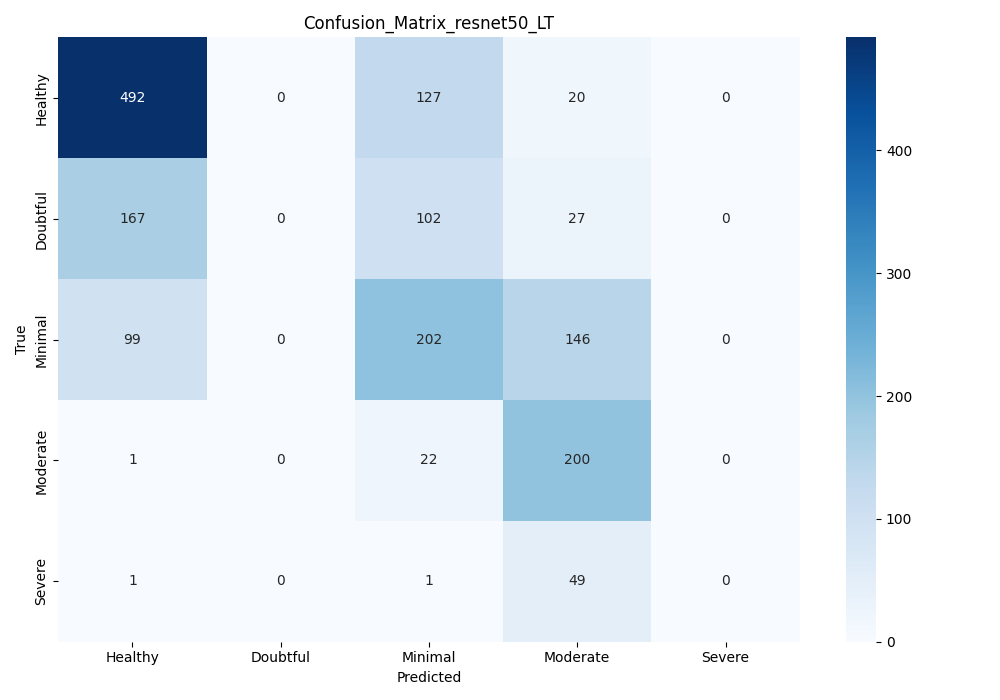
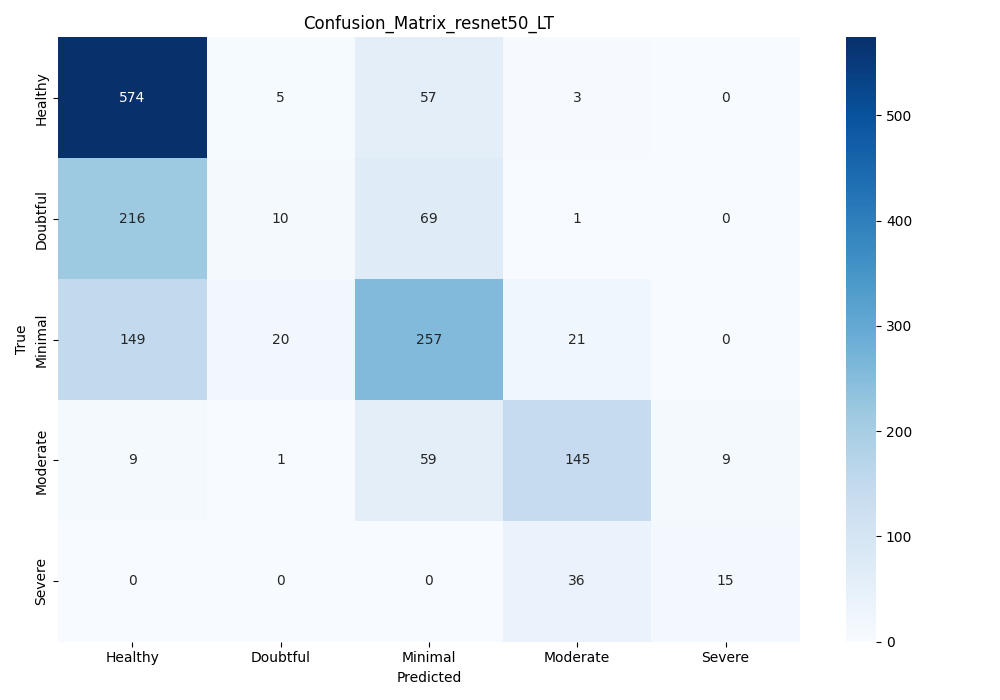
addedstreamlit for img gen + added cosine annealing

diff --git a/generate_data.py b/generate_data.py
@@ -1,0 +1,161 @@
+import omegaconf
+from data.kneeOA import KneeOADataset
+from utils.utils import *
+from monai.utils import set_determinism
+from torch.utils.data import DataLoader
+from models.generative_model import build_autoencoder, build_diffusion_model, \
+                                    build_scheduler, AutoEncoderSampler, \
+                                    build_controlnet
+import torch
+from transformers import CLIPTextModel, CLIPTokenizer
+import gc
+
+cfg = omegaconf.OmegaConf.load('configs/cfg.yaml')
+set_determinism(seed=cfg.TRAIN.SEED)
+
+img_transform = get_transforms(cfg)
+train_dataset = KneeOADataset(cfg, 'train', img_transform)
+scaling_factor = ldm_scaling_factor(cfg, train_dataset)
+cfg.ldm.scale_factor = scaling_factor.item()
+train_loader = DataLoader(train_dataset, batch_size=4, 
+                        shuffle=True, num_workers=cfg.TRAIN.NUM_WORKERS,
+                        pin_memory=cfg.TRAIN.PIN_MEMORY)
+device = torch.device('cuda' if torch.cuda.is_available() else 'cpu')
+
+gc.collect()
+torch.cuda.empty_cache()
+
+# Loading Model
+autoencoder = build_autoencoder(cfg)
+autoencoder.load_state_dict(torch.load(os.path.join(cfg.TRAIN.MODEL_PATH, 
+                                                    cfg.stage1.BEST_MODEL_NAME)))
+auto_sampler = AutoEncoderSampler(autoencoder)
+auto_sampler.eval()
+
+diffusion_model = build_diffusion_model(cfg)
+diffusion_model.load_state_dict(torch.load(os.path.join(cfg.TRAIN.MODEL_PATH, 
+                                                        cfg.ldm.BEST_MODEL_NAME)))
+diffusion_model.eval()
+
+controlnet = build_controlnet(cfg)
+
+# Copy weights from the DM to the controlnet
+controlnet.load_state_dict(torch.load(os.path.join(cfg.TRAIN.MODEL_PATH,
+                                                   cfg.controlnet.CHECKPOINT_NAME))["controlnet"])
+controlnet.eval()
+    
+scheduler = build_scheduler(cfg)
+text_encoder = CLIPTextModel.from_pretrained(cfg.text_encoder.model_name, 
+                                                subfolder="text_encoder")
+tokenizer = CLIPTokenizer.from_pretrained(cfg.text_encoder.model_name, 
+                                            subfolder="tokenizer")
+
+autoencoder = autoencoder.to(device)
+diffusion_model = diffusion_model.to(device)
+controlnet = controlnet.to(device)
+text_encoder = text_encoder.to(device)
+
+class_0_images = []
+# class_1_images = []
+# class_2_images = []
+# class_3_images = []
+# class_4_images = []
+for batch in train_loader:
+    conditioning_images = batch['image']
+    conditional_prompts = batch['prompt']
+    kl_grade = batch['kl_grade']
+    
+    class_0_images.extend(conditioning_images[torch.where(kl_grade == 0)[0]])
+    # class_1_images.extend(conditioning_images[torch.where(kl_grade == 1)[0]])
+    # class_2_images.extend(conditioning_images[torch.where(kl_grade == 2)[0]])
+    # class_3_images.extend(conditioning_images[torch.where(kl_grade == 3)[0]])
+    # class_4_images.extend(conditioning_images[torch.where(kl_grade == 4)[0]])
+class_0_images = torch.stack(class_0_images).to(device)
+# class_1_images = torch.stack(class_1_images).to(device)
+# class_2_images = torch.stack(class_2_images).to(device)
+# class_3_images = torch.stack(class_3_images).to(device)
+# class_4_images = torch.stack(class_4_images).to(device)
+
+@torch.no_grad()
+def transform_to_kl_grade(images, current_kl_grade, target_kl_grade,
+                          controlnet_scale=1.0, guidance_scale=2.0):
+    os.makedirs(f"./datasets/zero_to_all/{target_kl_grade}", exist_ok=True)
+    descriptions = {
+        "0": "Healthy knee image",
+        "1": "Doubtful joint narrowing with possible osteophytic lipping",
+        "2": "Definite presence of osteophytes and possible joint space narrowing",
+        "3": "Multiple osteophytes, definite joint space narrowing, with mild sclerosis",
+        "4": "Large osteophytes, significant joint narrowing, and severe sclerosis"
+        }
+    prompt_text = f"Generate a high-resolution X-ray image of the knee with \
+Kellgren and Lawrence grade (KL Grade): {target_kl_grade}, depicting \
+{descriptions[target_kl_grade]} from a conditioned image of Kellgren and \
+Lawrence grade (KL Grade): {current_kl_grade}, depicting {descriptions[current_kl_grade]}"
+
+    progressive_images = []
+    bs = 16
+    caption = [prompt_text]*bs
+    prompt_input = tokenizer(caption, padding="max_length",
+                                max_length=tokenizer.model_max_length,
+                                truncation=True,return_tensors="pt")['input_ids']
+    prompt_input = prompt_input.to(device)
+    for i in tqdm(range(0, len(images), bs)):
+        condition = images[i:i+bs]
+        prompt_embeds = text_encoder(prompt_input.squeeze(1))
+        prompt_embeds = prompt_embeds[0]
+        
+        latent = torch.randn((len(condition),) + (3,28,28))
+        latent = latent.to(device)
+        uncond_prompt_embeds = torch.cat((49406 * torch.ones(1, 1), 49407 * torch.ones(1, 76)), 1).long()
+        uncond_prompt_embeds = uncond_prompt_embeds.to(device)
+        uncond_prompt_embeds = text_encoder(uncond_prompt_embeds.squeeze(1))
+        uncond_prompt_embeds = uncond_prompt_embeds[0]
+        uncond_prompt_embeds = uncond_prompt_embeds.expand(len(condition), *uncond_prompt_embeds.shape[1:])
+        for t in scheduler.timesteps:
+            down_block_res_samples, mid_block_res_sample = controlnet(
+                                    x=latent,
+                                    timesteps=torch.asarray((t,)).to(device).long(),
+                                    context=prompt_embeds,
+                                    controlnet_cond=condition,
+                                    conditioning_scale=controlnet_scale,
+                                )
+            model_output = diffusion_model(
+                                    x=latent,
+                                    timesteps=torch.asarray((t,)).to(device).long(),
+                                    context=prompt_embeds,
+                                    down_block_additional_residuals=down_block_res_samples,
+                                    mid_block_additional_residual=mid_block_res_sample,
+                                )
+            model_output_uncond = diffusion_model(
+                                    x=latent,
+                                    timesteps=torch.asarray((t,)).to(device).long(),
+                                    context=uncond_prompt_embeds,
+                                    down_block_additional_residuals=down_block_res_samples,
+                                    mid_block_additional_residual=mid_block_res_sample,
+                                )
+            noise_pred_uncond, noise_pred_text = model_output, model_output_uncond
+            noise_pred = noise_pred_uncond + guidance_scale * (noise_pred_text - noise_pred_uncond)
+            latent, _ = scheduler.step(noise_pred, t, latent)
+        x_hat = auto_sampler.model.decode(latent / scaling_factor)
+        x_hat = torch.clip(x_hat, 0, 1)
+        x_hat = x_hat.cpu().numpy()[:,0]
+        progressive_images.extend(x_hat)
+    
+    for idx, img in enumerate(progressive_images):
+        plt.imsave(f"./datasets/zero_to_all/{target_kl_grade}/image_{idx}.png", img, cmap='gray')
+
+# random_idx_progress = random.sample(list(range(len(class_0_images))), 1243)
+# sample_images = class_0_images[random_idx_progress]
+# transform_to_kl_grade(sample_images, '0', '1')
+
+# random_idx_progress = random.sample(list(range(len(class_0_images))), 773)
+# sample_images = class_0_images[random_idx_progress]
+# transform_to_kl_grade(sample_images, '0', '2')
+
+# random_idx_progress = random.sample(list(range(len(class_0_images))), 1532)
+# sample_images = class_0_images[random_idx_progress]
+# transform_to_kl_grade(sample_images, '0', '3')
+
+random_idx_progress = random.sample(list(range(len(class_0_images))), 2116)
+sample_images = class_0_images[random_idx_progress]
+transform_to_kl_grade(sample_images, '0', '4')

diff --git a/app_generate.py b/app_generate.py
@@ -1,0 +1,156 @@
+import streamlit as st
+import torch
+import numpy as np
+import torchvision.transforms as transforms
+from PIL import Image
+import matplotlib.pyplot as plt
+import matplotlib.cm as cm
+import torchvision.models as models
+import torch.nn as nn
+import timm
+
+import omegaconf
+from data.kneeOA import KneeOADataset
+from utils.utils import *
+from monai.utils import set_determinism
+from torch.utils.data import DataLoader
+from models.generative_model import build_autoencoder, build_diffusion_model, \
+                                    build_scheduler, AutoEncoderSampler, \
+                                    build_controlnet
+import torch
+from transformers import CLIPTextModel, CLIPTokenizer
+import gc
+
+cfg = omegaconf.OmegaConf.load('./configs/cfg.yaml')
+set_determinism(seed=cfg.TRAIN.SEED)
+
+img_transform = get_transforms(cfg)
+train_dataset = KneeOADataset(cfg, 'train', img_transform)
+scaling_factor = ldm_scaling_factor(cfg, train_dataset)
+cfg.ldm.scale_factor = scaling_factor.item()
+device = torch.device('cuda' if torch.cuda.is_available() else 'cpu')
+
+gc.collect()
+torch.cuda.empty_cache()
+
+# Loading Model
+autoencoder = build_autoencoder(cfg)
+autoencoder.load_state_dict(torch.load(os.path.join(cfg.TRAIN.MODEL_PATH, 
+                                                    cfg.stage1.BEST_MODEL_NAME)))
+auto_sampler = AutoEncoderSampler(autoencoder)
+auto_sampler.eval()
+
+diffusion_model = build_diffusion_model(cfg)
+diffusion_model.load_state_dict(torch.load(os.path.join(cfg.TRAIN.MODEL_PATH, 
+                                                        cfg.ldm.BEST_MODEL_NAME)))
+diffusion_model.eval()
+
+controlnet = build_controlnet(cfg)
+
+# Copy weights from the DM to the controlnet
+controlnet.load_state_dict(torch.load(os.path.join(cfg.TRAIN.MODEL_PATH,
+                                                   cfg.controlnet.CHECKPOINT_NAME))["controlnet"])
+controlnet.eval()
+    
+scheduler = build_scheduler(cfg)
+text_encoder = CLIPTextModel.from_pretrained(cfg.text_encoder.model_name, 
+                                                subfolder="text_encoder")
+tokenizer = CLIPTokenizer.from_pretrained(cfg.text_encoder.model_name, 
+                                            subfolder="tokenizer")
+
+autoencoder = autoencoder.to(device)
+diffusion_model = diffusion_model.to(device)
+controlnet = controlnet.to(device)
+text_encoder = text_encoder.to(device)
+
+@torch.no_grad()
+def transform_to_kl_grade(image, current_kl_grade, target_kl_grade,
+                          controlnet_scale=1.0, guidance_scale=2.0):
+    image = img_transform(image)
+    descriptions = {
+        "0": "Healthy knee image",
+        "1": "Doubtful joint narrowing with possible osteophytic lipping",
+        "2": "Definite presence of osteophytes and possible joint space narrowing",
+        "3": "Multiple osteophytes, definite joint space narrowing, with mild sclerosis",
+        "4": "Large osteophytes, significant joint narrowing, and severe sclerosis"
+        }
+    prompt_text = f"Generate a high-resolution X-ray image of the knee with \
+Kellgren and Lawrence grade (KL Grade): {target_kl_grade}, depicting \
+{descriptions[target_kl_grade]} from a conditioned image of Kellgren and \
+Lawrence grade (KL Grade): {current_kl_grade}, depicting {descriptions[current_kl_grade]}"
+
+    caption = [prompt_text]
+    prompt_input = tokenizer(caption, padding="max_length",
+                                max_length=tokenizer.model_max_length,
+                                truncation=True,return_tensors="pt")['input_ids']
+    prompt_input = prompt_input.to(device)
+    condition = image[0:1,:,:].unsqueeze(0).to(device)
+    prompt_embeds = text_encoder(prompt_input.squeeze(1))
+    prompt_embeds = prompt_embeds[0]
+        
+    latent = torch.randn((len(condition),) + (3,28,28))
+    latent = latent.to(device)
+    uncond_prompt_embeds = torch.cat((49406 * torch.ones(1, 1), 49407 * torch.ones(1, 76)), 1).long()
+    uncond_prompt_embeds = uncond_prompt_embeds.to(device)
+    uncond_prompt_embeds = text_encoder(uncond_prompt_embeds.squeeze(1))
+    uncond_prompt_embeds = uncond_prompt_embeds[0]
+    uncond_prompt_embeds = uncond_prompt_embeds.expand(len(condition), *uncond_prompt_embeds.shape[1:])
+    for t in scheduler.timesteps:
+        down_block_res_samples, mid_block_res_sample = controlnet(
+                                x=latent,
+                                timesteps=torch.asarray((t,)).to(device).long(),
+                                context=prompt_embeds,
+                                controlnet_cond=condition,
+                                conditioning_scale=controlnet_scale,
+                            )
+        model_output = diffusion_model(
+                                x=latent,
+                                timesteps=torch.asarray((t,)).to(device).long(),
+                                context=prompt_embeds,
+                                down_block_additional_residuals=down_block_res_samples,
+                                mid_block_additional_residual=mid_block_res_sample,
+                            )
+        model_output_uncond = diffusion_model(
+                                x=latent,
+                                timesteps=torch.asarray((t,)).to(device).long(),
+                                context=uncond_prompt_embeds,
+                                down_block_additional_residuals=down_block_res_samples,
+                                mid_block_additional_residual=mid_block_res_sample,
+                            )
+        noise_pred_uncond, noise_pred_text = model_output, model_output_uncond
+        noise_pred = noise_pred_uncond + guidance_scale * (noise_pred_text - noise_pred_uncond)
+        latent, _ = scheduler.step(noise_pred, t, latent)
+    x_hat = auto_sampler.model.decode(latent / scaling_factor)
+    x_hat = torch.clip(x_hat, 0, 1)
+    x_hat = x_hat.cpu().numpy()[0][0]
+    # convert x_hat to PIL image
+    x_hat = Image.fromarray(np.uint8(x_hat*255))
+    return x_hat
+
+# Streamlit page configuration
+icon = Image.open("./knee_OA_dl_app/app/img/iitb_logo.png")
+st.set_page_config(page_title="Knee OA Severity Analysis", page_icon=icon)    
+# UI Sidebar
+with st.sidebar:
+    st.image(icon)
+    st.markdown("<h2 style='text-align: center; font-size: 24px;'>Team PADMA</h2>", unsafe_allow_html=True)
+    st.caption("===DH 602 Course Project===")
+    gen_kl_grade=st.text_input("Write the KL Grade you want to generate")
+    input_kl_grade=st.text_input("Write the KL Grade of input image")
+    uploaded_file = st.file_uploader("Choose X-Ray image")
+    
+st.header("Knee Osteoarthritis X-Ray Image Generation")
+
+if uploaded_file is not None:
+    img = Image.open(uploaded_file).convert('RGB')
+    col1, col2 = st.columns(2)
+    with col1:
+        st.subheader(":camera: Input X-Ray Image")
+        st.image(img, use_column_width=True)
+
+        # with col2:
+    with col2:
+        st.subheader(":mag: Generated X-Ray Image")
+        st.image(transform_to_kl_grade(img, input_kl_grade, gen_kl_grade), use_column_width=True)
+                
+

diff --git a/train/train_classification_models.py b/train/train_classification_models.py
@@ -45,7 +45,10 @@ def train_classification_model(cfg, train_dataset, valid_dataset, test_dataset):
 
     criterion = nn.CrossEntropyLoss()
     optimizer = torch.optim.AdamW(model.parameters(), lr=float(cfg.TRAIN.LR))
-    scheduler = torch.optim.lr_scheduler.ReduceLROnPlateau(optimizer, verbose=True, patience=cfg.TRAIN.PATIENCE, factor=cfg.TRAIN.FACTOR, min_lr=float(cfg.TRAIN.MIN_LR))
+    if cfg.TRAIN.SCHEDULER == 'ReduceLROnPlateau':
+        scheduler = torch.optim.lr_scheduler.ReduceLROnPlateau(optimizer, patience=cfg.TRAIN.PATIENCE, factor=cfg.TRAIN.FACTOR, min_lr=float(cfg.TRAIN.MIN_LR), verbose=True)
+    elif cfg.TRAIN.SCHEDULER == 'CosineAnnealingLR':
+        scheduler = torch.optim.lr_scheduler.CosineAnnealingWarmRestarts(optimizer, T_0 = 10, eta_min=float(cfg.TRAIN.MIN_LR))
 
     def train_model():
         model.train()
@@ -53,8 +56,8 @@ def train_classification_model(cfg, train_dataset, valid_dataset, test_dataset):
         start_time = time()
         for epoch in range(epochs):
             running_loss = 0.0
-            loop = tqdm(train_loader, total=len(train_loader))
-            for batch in loop:
+            loop = tqdm(enumerate(train_loader), total=len(train_loader))
+            for i, batch in loop:
                 inputs, labels = batch['image'], batch['kl_grade']
                 if inputs.size(1) == 1:  
                     inputs = inputs.repeat(1, 3, 1, 1)
@@ -64,9 +67,16 @@ def train_classification_model(cfg, train_dataset, valid_dataset, test_dataset):
                 loss = criterion(outputs, labels)
                 loss.backward()
                 optimizer.step()
+                
+                if cfg.TRAIN.SCHEDULER == 'CosineAnnealingLR':
+                    scheduler.step(epoch + i / len(train_loader))
+                
                 running_loss += loss.item() * inputs.size(0)
                 loop.set_description(f'Epoch [{epoch+1}/{epochs}]')
                 loop.set_postfix(loss=running_loss / len(train_dataset))
+                
+                current_lr = optimizer.param_groups[0]['lr']
+                wandb.log({"learning_rate": current_lr})
 
             train_loss = running_loss / len(train_dataset)
             val_loss, val_class_accuracies = evaluate(valid_loader, log_classwise=True)
